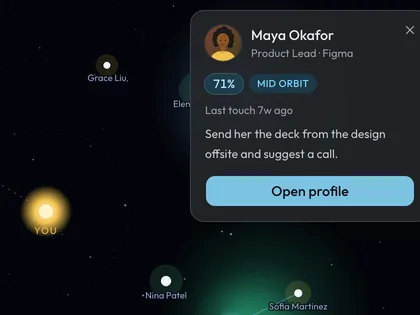
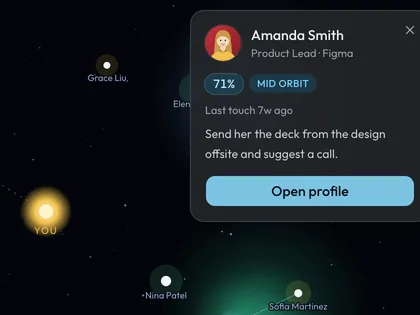
feat(waitlist): preview contact is Amanda Smith; the tour types its question and hovers Send
Renames the featured contact (blonde portrait, red backdrop), has the
autoplay cursor type into the ask bar before sending, and rests on
'Send email…' for the 'you decide what gets sent' beat. Stills regenerated.

Changed region(s): [[0.4643, 0.0571, 0.8357, 0.1714]]

diff --git a/src/components/interest/app-demo/demo-cast.ts b/src/components/interest/app-demo/demo-cast.ts
@@ -5,7 +5,7 @@
  * A broad professional mix on purpose — old colleagues, a mentor, a recruiter, a prospect,
  * a founder friend — so any visitor recognises someone. Companies repeat so the
  * Constellation has figures to draw: Figma ×3, Stripe ×3, Deloitte ×2, Michigan alumni ×3.
- * Maya Okafor carries the tour's story; keep her suggestion, promise and Figma star intact.
+ * Amanda Smith carries the tour's story; keep her suggestion, promise and Figma star intact.
  */
 
 export type TimelineType = "Email" | "Meeting" | "Call" | "LinkedIn" | "In person" | "Note";
@@ -56,7 +56,7 @@ export const CLUSTERS: Record<ClusterId, { label: string; kind: "company" | "sch
 
 /** Stars joined into each figure, in drawing order. */
 export const CLUSTER_CHAINS: Record<ClusterId, string[]> = {
-  figma: ["maya", "daniel", "priya", "maya"],
+  figma: ["amanda", "daniel", "priya", "amanda"],
   stripe: ["elena", "marcus", "aisha"],
   deloitte: ["tom", "sofia"],
   michigan: ["jordan", "hannah", "ben"],
@@ -64,8 +64,8 @@ export const CLUSTER_CHAINS: Record<ClusterId, string[]> = {
 
 export const DEMO_PEOPLE: DemoPerson[] = [
   {
-    id: "maya",
-    name: "Maya Okafor",
+    id: "amanda",
+    name: "Amanda Smith",
     hue: 12,
     title: "Product Lead",
     company: "Figma",
@@ -125,12 +125,12 @@ export const DEMO_PEOPLE: DemoPerson[] = [
     closeness: 44,
     lastTouchDays: 88,
     followUpDays: null,
-    howMet: "Introduced by Maya Okafor",
+    howMet: "Introduced by Amanda Smith",
     standing: "Runs research at Figma; open to comparing notes on interview synthesis.",
-    nextStep: "Ask Maya for a refresher intro before reaching out.",
+    nextStep: "Ask Amanda for a refresher intro before reaching out.",
     tags: ["research", "intro"],
     timeline: [
-      { id: "p1", type: "Meeting", daysAgo: 88, note: "Intro call via Maya — research ops, synthesis tools", source: "Google Calendar" },
+      { id: "p1", type: "Meeting", daysAgo: 88, note: "Intro call via Amanda — research ops, synthesis tools", source: "Google Calendar" },
     ],
     cluster: "figma",
     star: { x: 112, y: 178 },
@@ -383,12 +383,14 @@ export type Look = {
   hair: string;
   style: HairStyle;
   shirt: string;
+  /** Backdrop gradient stops, when it should not follow the person's hue. */
+  bg?: [string, string];
   glasses?: boolean;
   beard?: boolean;
 };
 
 export const LOOKS: Record<string, Look> = {
-  maya: { skin: "#8d5524", hair: "#1b1b1b", style: "curly", shirt: "#f2c14e" },
+  amanda: { skin: "#f6d9c0", hair: "#c89b4a", style: "long", shirt: "#f2c14e", bg: ["#c8323c", "#7f1d24"] },
   daniel: { skin: "#f1c27d", hair: "#141414", style: "short", shirt: "#3b82f6", glasses: true },
   priya: { skin: "#c68642", hair: "#171010", style: "long", shirt: "#a78bfa" },
   elena: { skin: "#e0ac69", hair: "#5a3825", style: "wavy", shirt: "#f472b6" },
@@ -416,13 +418,13 @@ export type SuggestionReason = "Dormant" | "LinkedIn quiet" | "Post-event" | "Sc
 
 /** What the recommendation engine surfaces on the Dashboard, in rank order. */
 export const DEMO_SUGGESTIONS: { personId: string; reason: SuggestionReason; why: string }[] = [
-  { personId: "maya", reason: "Dormant", why: "You said check in monthly — last touch 46 days ago" },
+  { personId: "amanda", reason: "Dormant", why: "You said check in monthly — last touch 46 days ago" },
   { personId: "grace", reason: "Post-event", why: "Met at SaaStr 5 days ago — no follow-up logged yet" },
   { personId: "tom", reason: "LinkedIn quiet", why: "He messaged about his new role — thread quiet for 12 days" },
   { personId: "jordan", reason: "Score bump", why: "Three calls this month — Jordan moved into your inner orbit" },
 ];
 
-export const TOUR_PERSON = "maya";
+export const TOUR_PERSON = "amanda";
 
 export function personById(id: string | null | undefined): DemoPerson | undefined {
   return id ? DEMO_PEOPLE.find((p) => p.id === id) : undefined;

diff --git a/scripts/smoke-waitlist-copy.ts b/scripts/smoke-waitlist-copy.ts
@@ -215,8 +215,8 @@ async function main() {
 
   console.log("\nThe demo's chat answers from its cast:");
   const { answerQuestion } = await import("../src/components/interest/app-demo/demo-chat");
-  const promise = answerQuestion("What did I promise Maya?");
-  check("a promise question answers with the promise", promise.kind === "promise" && promise.text.includes("design offsite") && promise.draft?.personId === "maya");
+  const promise = answerQuestion("What did I promise Amanda?");
+  check("a promise question answers with the promise", promise.kind === "promise" && promise.text.includes("design offsite") && promise.draft?.personId === "amanda");
   check("…citing Gmail or Calendar", promise.sources.some((s) => s.source === "Gmail" || s.source === "Google Calendar"));
   check("a company question lists the people there", answerQuestion("Who do I know at Stripe?").kind === "company");
   check("an intro question picks a match", answerQuestion("Who should meet Grace Liu?").text.includes("Elena"));
@@ -232,15 +232,15 @@ async function main() {
   const st = await import("../src/components/interest/app-demo/demo-state");
   let s = st.initialDemoState("explore");
   const due0 = st.stats(s).due;
-  s = st.demoReducer(s, { type: "setFollowUp", id: "maya", days: 0 });
+  s = st.demoReducer(s, { type: "setFollowUp", id: "amanda", days: 0 });
   check("setting a follow-up due today raises the Due count", st.stats(s).due === due0 + 1);
-  check("…and answers the engine's nudge", !st.activeSuggestions(s).some((x) => x.personId === "maya"));
-  s = st.demoReducer(s, { type: "ask", q: "What did I promise Maya?" });
+  check("…and answers the engine's nudge", !st.activeSuggestions(s).some((x) => x.personId === "amanda"));
+  s = st.demoReducer(s, { type: "ask", q: "What did I promise Amanda?" });
   const turn = s.chat.find((t) => t.role === "assistant")!;
   s = st.demoReducer(s, { type: "draft", turnId: turn.id });
   s = st.demoReducer(s, { type: "sendDraft", turnId: turn.id });
-  const maya = (await import("../src/components/interest/app-demo/demo-cast")).personById("maya")!;
-  check("sending a draft logs it to the timeline via Gmail", st.timelineOf(s, maya)[0]?.source === "Gmail" && st.lastTouchOf(s, maya) === 0);
+  const amanda = (await import("../src/components/interest/app-demo/demo-cast")).personById("amanda")!;
+  check("sending a draft logs it to the timeline via Gmail", st.timelineOf(s, amanda)[0]?.source === "Gmail" && st.lastTouchOf(s, amanda) === 0);
   check("reset keeps the mode", st.demoReducer({ ...s, mode: "tour" }, { type: "reset" }).mode === "tour");
 
   if (failures > 0) {

diff --git a/src/components/interest/app-demo/demo-chat.ts b/src/components/interest/app-demo/demo-chat.ts
@@ -24,7 +24,7 @@ export type NarratedAnswer = ChatAnswer & { steps: DemoStep[] };
 
 /** The canned questions on the chat's suggestion cards, with the reason line under each. */
 export const CHAT_SUGGESTIONS = [
-  { q: "What did I promise Maya?", why: "Follow-up gone quiet 46 days" },
+  { q: "What did I promise Amanda?", why: "Follow-up gone quiet 46 days" },
   { q: "Who do I know at Stripe?", why: "3 people · 1 inner orbit" },
   { q: "Who should I follow up with this week?", why: "From your reminders and suggestions" },
   { q: "Who should meet Grace Liu?", why: "Met at SaaStr 5 days ago" },
@@ -34,15 +34,15 @@ export const CHAT_SUGGESTIONS = [
 const INTROS: Record<string, { to: string; why: string }> = {
   grace: { to: "elena", why: "Elena runs logistics partnerships at Stripe and asked you for founders scaling ops." },
   elena: { to: "grace", why: "Grace is evaluating payments partners for Northwind's ops team." },
-  sofia: { to: "maya", why: "Maya made the jump from consulting to product and is building a team." },
-  maya: { to: "priya", why: "Priya runs research at Figma — Maya's new team will lean on her." },
+  sofia: { to: "amanda", why: "Amanda made the jump from consulting to product and is building a team." },
+  amanda: { to: "priya", why: "Priya runs research at Figma — Amanda's new team will lean on her." },
   ben: { to: "aisha", why: "Aisha recruits platform PMs at Stripe; Ben knows the senior PM market." },
   jordan: { to: "hannah", why: "Hannah scaled engineering at Notion — exactly what Loop needs next." },
 };
 
 const DRAFTS: Record<string, string> = {
-  maya:
-    "Hi Maya — sorry this took a while! Here's the deck from the design offsite we talked about over coffee. Happy to walk you through how we ran discovery on Atlas — would a call next week work?",
+  amanda:
+    "Hi Amanda — sorry this took a while! Here's the deck from the design offsite we talked about over coffee. Happy to walk you through how we ran discovery on Atlas — would a call next week work?",
   grace:
     "Hi Grace — great meeting you after the ops panel at SaaStr. You mentioned you're evaluating payments partners; I'd love to introduce you to Elena Rossi, who leads logistics partnerships at Stripe. Open to it?",
   elena:

diff --git a/src/components/interest/app-demo/demo-cursor.tsx b/src/components/interest/app-demo/demo-cursor.tsx
@@ -58,6 +58,7 @@ export function useDemoTour({
   const [cursor, setCursor] = useState<Point | null>(null);
   const [pressing, setPressing] = useState(false);
   const [beat, setBeat] = useState(0);
+  const [typed, setTyped] = useState("");
 
   useEffect(() => {
     if (!active) return;
@@ -96,12 +97,21 @@ export function useDemoTour({
             setCursor(aimAt(el, root));
             await sleep(reduced ? 300 : 900);
           }
+          if (b.type) {
+            // Typed into the ask bar the way a person would, then sent by the click below.
+            for (let n = 1; n <= b.type.length; n++) {
+              setTyped(b.type.slice(0, n));
+              await sleep(reduced ? 0 : 45);
+            }
+            await sleep(reduced ? 100 : 350);
+          }
           if (b.action) {
             setPressing(true);
             await sleep(160);
             const action = typeof b.action === "function" ? b.action(stateRef.current) : b.action;
             if (action) dispatch(action);
             setPressing(false);
+            setTyped("");
             if (action && (action.type === "reset" || action.type === "openProfile" || action.type === "go" || action.type === "ask")) {
               paneRef.current?.scrollTo({ top: 0 });
             }
@@ -116,10 +126,11 @@ export function useDemoTour({
     return () => {
       cancelled = true;
       setPressing(false);
+      setTyped("");
     };
   }, [active, reduced, rootRef, paneRef, pausedRef, stateRef, dispatch]);
 
-  return { cursor, pressing, beat };
+  return { cursor, pressing, beat, typed };
 }
 
 export function TourCursor({ at, pressing, reduced }: { at: Point; pressing: boolean; reduced: boolean }) {

diff --git a/src/components/interest/app-demo/demo-tour.ts b/src/components/interest/app-demo/demo-tour.ts
@@ -11,6 +11,8 @@ export type TourBeat = {
   caption: string;
   /** The click. A function when the action depends on state (the draft's turn id). */
   action?: DemoAction | ((state: DemoState) => DemoAction | null);
+  /** Text typed into the ask bar, a letter at a time, before the click. */
+  type?: string;
   /** How long to hold after the click (or the arrival), in ms. */
   dwell: number;
 };
@@ -18,7 +20,7 @@ export type TourBeat = {
 export const TOUR: TourBeat[] = [
   {
     target: `suggestion-${TOUR_PERSON}`,
-    caption: "Orbit noticed Maya has gone quiet — you said you'd check in monthly.",
+    caption: "Orbit noticed Amanda has gone quiet — you said you'd check in monthly.",
     dwell: 2600,
   },
   {
@@ -35,7 +37,8 @@ export const TOUR: TourBeat[] = [
   {
     target: "profile-ask",
     caption: "Ask Orbit about her.",
-    action: { type: "ask", q: "What did I promise Maya?" },
+    type: "What did I promise Amanda?",
+    action: { type: "ask", q: "What did I promise Amanda?" },
     dwell: 600,
   },
   {
@@ -48,7 +51,7 @@ export const TOUR: TourBeat[] = [
     dwell: 800,
   },
   {
-    target: "chat-draft-card",
+    target: "chat-send-btn",
     caption: "It drafts. You decide what gets sent.",
     dwell: 2600,
   },
@@ -60,7 +63,7 @@ export const TOUR: TourBeat[] = [
   },
   {
     target: `star-${TOUR_PERSON}`,
-    caption: "Maya, in the Figma constellation — one of your mid-orbit ties.",
+    caption: "Amanda, in the Figma constellation — one of your mid-orbit ties.",
     action: { type: "star", id: TOUR_PERSON },
     dwell: 3200,
   },

diff --git a/src/components/interest/demo-peek.tsx b/src/components/interest/demo-peek.tsx
@@ -18,23 +18,23 @@ import { cn } from "@/lib/utils";
 const SLIDES = [
   {
     name: "suggestion",
-    caption: "Maya has gone quiet — and you said you'd check in monthly.",
-    alt: "A suggestion to reach out to Maya Okafor, marked dormant, last touched 46 days ago.",
+    caption: "Amanda has gone quiet — and you said you'd check in monthly.",
+    alt: "A suggestion to reach out to Amanda Smith, marked dormant, last touched 46 days ago.",
   },
   {
     name: "timeline",
     caption: "Everything about her in one place: email, meetings, LinkedIn.",
-    alt: "Maya's timeline: an email, a coffee meeting, a LinkedIn message and a call.",
+    alt: "Amanda's timeline: an email, a coffee meeting, a LinkedIn message and a call.",
   },
   {
     name: "draft",
     caption: "It remembers what you promised, and drafts the follow-up.",
-    alt: "An answer recalling the deck promised to Maya, with a drafted email ready to send.",
+    alt: "An answer recalling the deck promised to Amanda, with a drafted email ready to send.",
   },
   {
     name: "constellation",
     caption: "And you can always see where everyone sits.",
-    alt: "A star chart of the network, with Maya's card open beside the Figma constellation.",
+    alt: "A star chart of the network, with Amanda's card open beside the Figma constellation.",
   },
 ] as const;
 

diff --git a/src/components/interest/app-demo/demo-window.tsx b/src/components/interest/app-demo/demo-window.tsx
@@ -90,7 +90,7 @@ export function DemoWindow() {
   }, [state.toast]);
 
   const touring = state.mode === "tour";
-  const { cursor, pressing, beat } = useDemoTour({ active: touring, reduced, rootRef, paneRef, pausedRef, stateRef, dispatch });
+  const { cursor, pressing, beat, typed } = useDemoTour({ active: touring, reduced, rootRef, paneRef, pausedRef, stateRef, dispatch });
 
   /**
    * Any press or key inside the window — other than the mode button itself — hands the
@@ -215,7 +215,7 @@ export function DemoWindow() {
               aria-label={asked ? `Ask about ${asked.name}` : "Ask your network"}
             >
               <Search className="size-4 text-muted-foreground" aria-hidden="true" />
-              <span className="flex-1 text-sm text-muted-foreground">Ask your network…</span>
+              <span className={typed ? "flex-1 text-sm text-ink" : "flex-1 text-sm text-muted-foreground"}>{typed || "Ask your network…"}</span>
               <kbd className="rounded-md border border-border bg-muted/50 px-1.5 text-[11px] text-muted-foreground">⌘J</kbd>
               <span className="inline-flex size-8 items-center justify-center rounded-full bg-primary text-primary-foreground">
                 <ArrowUp className="size-4" aria-hidden="true" />

diff --git a/src/components/interest/app-demo/screens/chat.tsx b/src/components/interest/app-demo/screens/chat.tsx
@@ -422,7 +422,7 @@ function Answer({ turn, last }: { turn: AssistantTurn; last: boolean }) {
                       ))}
                     </div>
                     <div className="mt-2.5 flex gap-2">
-                      <button type="button" className={cn(BTN_PRIMARY, "rounded-full")} onClick={() => dispatch({ type: "sendDraft", turnId: turn.id })}>
+                      <button type="button" data-demo-target={last ? "chat-send-btn" : undefined} className={cn(BTN_PRIMARY, "rounded-full")} onClick={() => dispatch({ type: "sendDraft", turnId: turn.id })}>
                         <Mail className="size-3.5" aria-hidden="true" />
                         Send email…
                       </button>

diff --git a/src/components/interest/app-demo/demo-ui.tsx b/src/components/interest/app-demo/demo-ui.tsx
@@ -114,8 +114,8 @@ export function Avatar({ person, size = 32, className }: { person: DemoPerson; s
           <circle cx={32} cy={32} r={32} />
         </clipPath>
         <linearGradient id={`${clip}-bg`} x1="0" y1="0" x2="1" y2="1">
-          <stop offset="0%" stopColor={`hsl(${h} 45% 34%)`} />
-          <stop offset="100%" stopColor={`hsl(${(h + 40) % 360} 40% 20%)`} />
+          <stop offset="0%" stopColor={look.bg?.[0] ?? `hsl(${h} 45% 34%)`} />
+          <stop offset="100%" stopColor={look.bg?.[1] ?? `hsl(${(h + 40) % 360} 40% 20%)`} />
         </linearGradient>
       </defs>
       <g clipPath={`url(#${clip})`}>
